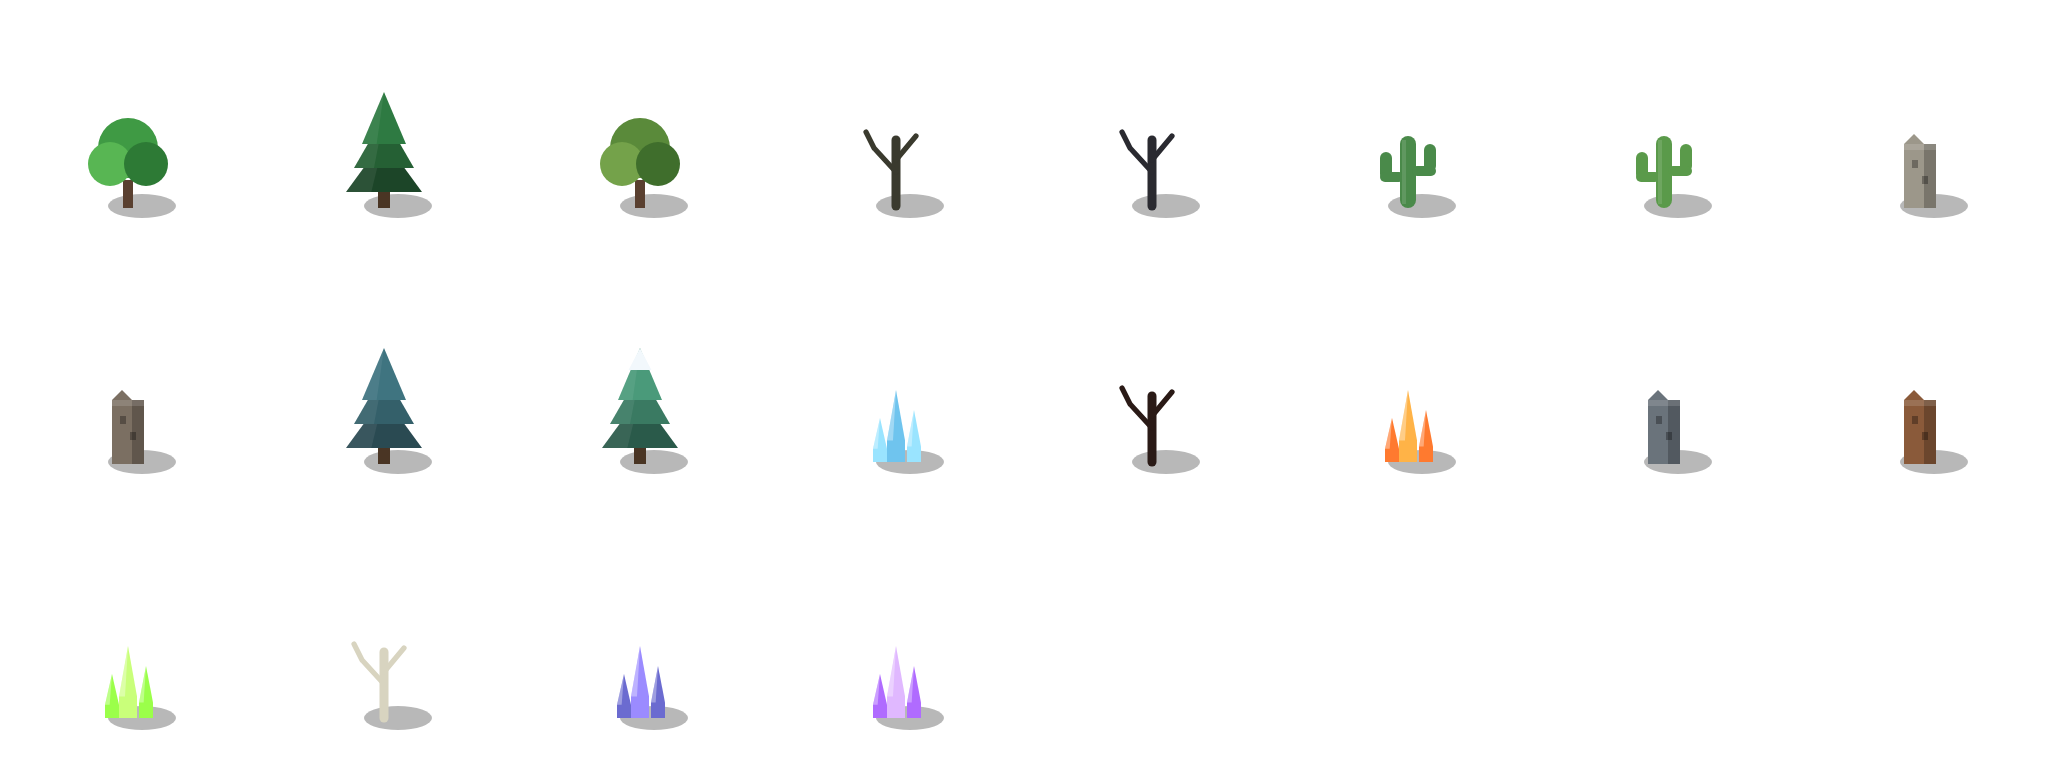
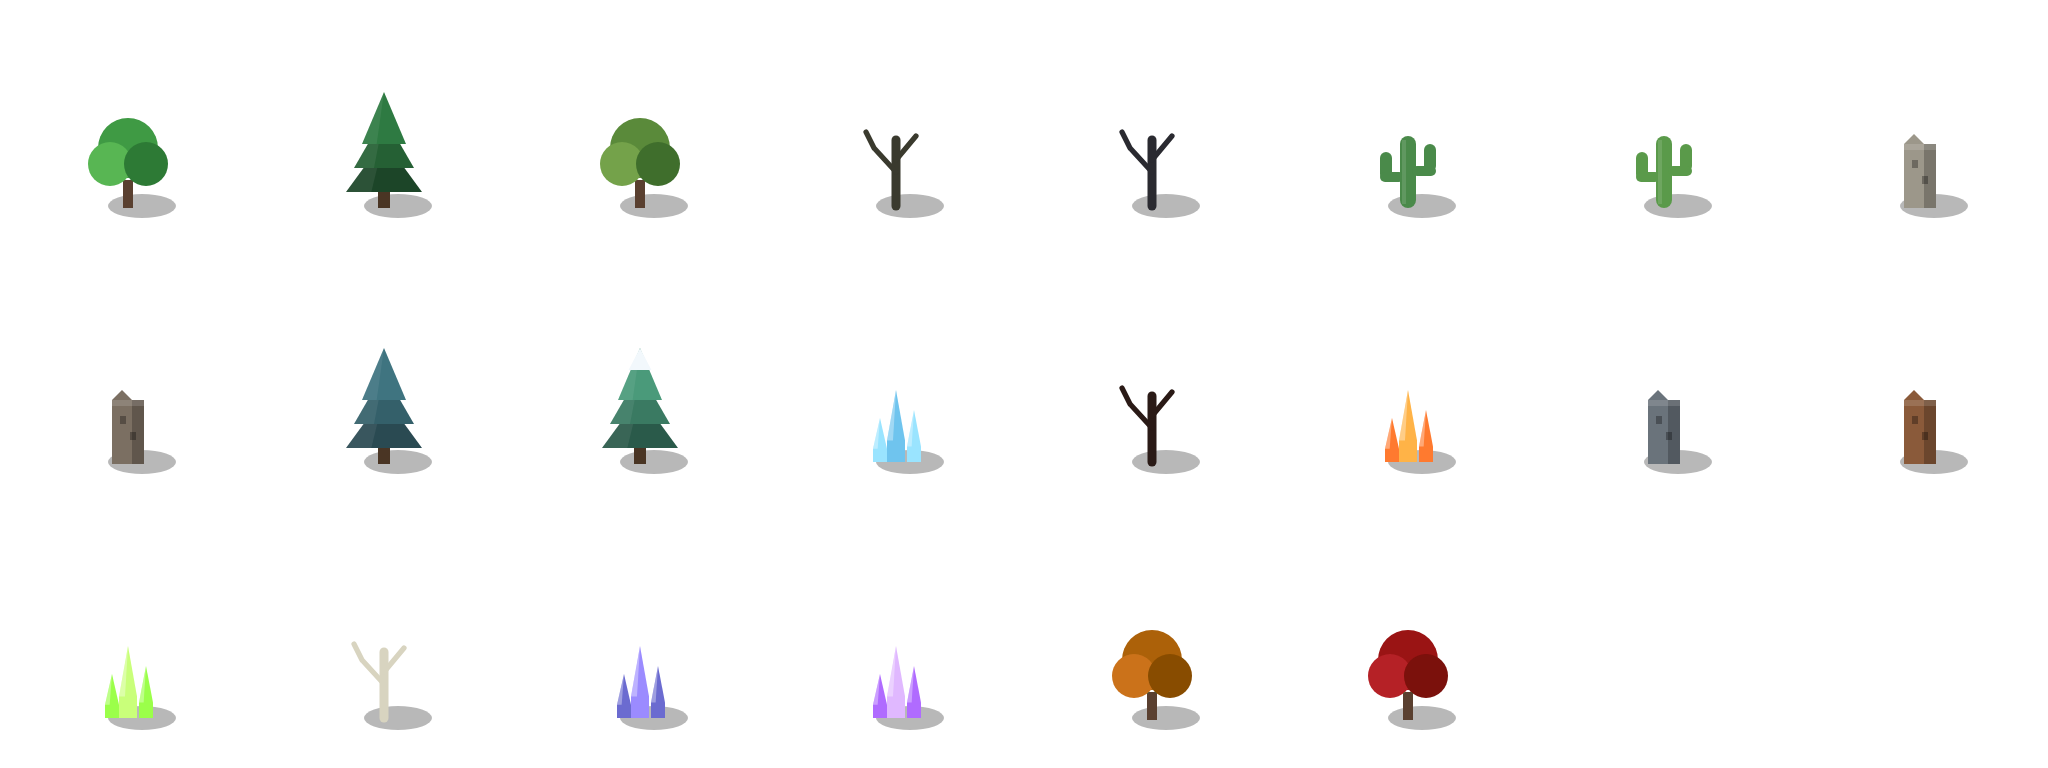
Temalara karışık ağaç türleri, Sonbahar için turuncu/kızıl ağaçlar; önizleme 15 sn
Claude-Session: https://claude.ai/code/session_01EfRVszRUBu6yfuB5ntdvep

Changed region(s): [[0.6562, 0.8125, 0.7188, 0.9688], [0.5312, 0.8125, 0.5938, 0.9688]]

diff --git a/Assets/Scripts/Core/Meta/Themes.cs b/Assets/Scripts/Core/Meta/Themes.cs
@@ -4,7 +4,7 @@ namespace SuruSavasi.Core.Meta
     {
         public string id, name, desc;
         public int price;      // elmas; 0 = bedava
-        public int treeMap;    // Art.Tree(map) hücresi
+        public int[] trees;     // Art.Tree(i) hücreleri; ağaçlar bunlardan karışık seçilir
         public string ground => "base_ground_" + id;
     }
 
@@ -13,11 +13,11 @@ namespace SuruSavasi.Core.Meta
     {
         public static readonly ThemeDef[] All =
         {
-            new ThemeDef { id = "green", name = "Yeşil Vadi", desc = "Çiçekli çayırlar ve meşe ağaçları", price = 0, treeMap = 0 },
-            new ThemeDef { id = "winter", name = "Kış Kalesi", desc = "Karla kaplı topraklar ve çam ağaçları", price = 300, treeMap = 10 },
-            new ThemeDef { id = "desert", name = "Çöl Vahası", desc = "Kum tepeleri ve palmiyeler", price = 300, treeMap = 6 },
-            new ThemeDef { id = "autumn", name = "Sonbahar", desc = "Kızıl yapraklar ve altın ışık", price = 500, treeMap = 2 },
-            new ThemeDef { id = "lava", name = "Volkan", desc = "Kor çatlakları ve kül rengi toprak", price = 800, treeMap = 13 },
+            new ThemeDef { id = "green", name = "Yeşil Vadi", desc = "Çiçekli çayırlar ve meşe ağaçları", price = 0, trees = new[] { 0, 0, 2, 1 } },
+            new ThemeDef { id = "winter", name = "Kış Kalesi", desc = "Karla kaplı topraklar ve çam ağaçları", price = 300, trees = new[] { 10, 10, 9 } },
+            new ThemeDef { id = "desert", name = "Çöl Vahası", desc = "Kum tepeleri ve palmiyeler", price = 300, trees = new[] { 6, 5, 6 } },
+            new ThemeDef { id = "autumn", name = "Sonbahar", desc = "Kızıl yapraklar ve altın ışık", price = 500, trees = new[] { 20, 21, 20, 3 } },
+            new ThemeDef { id = "lava", name = "Volkan", desc = "Kor çatlakları ve kül rengi toprak", price = 800, trees = new[] { 13, 13, 12 } },
         };
 
         public static ThemeDef Get(string id) { foreach (var t in All) if (t.id == id) return t; return All[0]; }

diff --git a/Assets/Scripts/Game/BaseMapView.cs b/Assets/Scripts/Game/BaseMapView.cs
@@ -398,10 +398,12 @@ namespace SuruSavasi.Game
             int wallL = Progress.Level(D, BuildingKind.Wall), tier = Mathf.CeilToInt(wallL / 4f);
 
             // Çevredeki ağaçlar (sadece ekrandakiler)
-            var tree = Art.Tree(theme.treeMap);
-            foreach (var tr in trees)
+            for (int i = 0; i < trees.Count; i++)
+            {
+                var tr = trees[i];
                 if (Mathf.Abs(tr.x - camX) < visW / 2 + 70 && Mathf.Abs(tr.y - camY) < visH / 2 + 140)
-                    Spr(tree, tr.x, tr.y, 100 + (int)tr.y, tr.z);
+                    Spr(Art.Tree(theme.trees[(i * 7 + 3) % theme.trees.Length]), tr.x, tr.y, 100 + (int)tr.y, tr.z);
+            }
 
             // Sur: parçalar, kuleler
             var seg = Art.WallSeg(tier); var tow = Art.WallTower(tier);

diff --git a/Assets/Scripts/Game/BaseMapView.Night.cs b/Assets/Scripts/Game/BaseMapView.Night.cs
@@ -93,7 +93,7 @@ namespace SuruSavasi.Game
         public static string previewTheme;
         static float previewUntil;
         bool previewNight;
-        const float PreviewSeconds = 12f;
+        const float PreviewSeconds = 15f;
 
         string ThemeId => previewTheme ?? D.theme;
 
